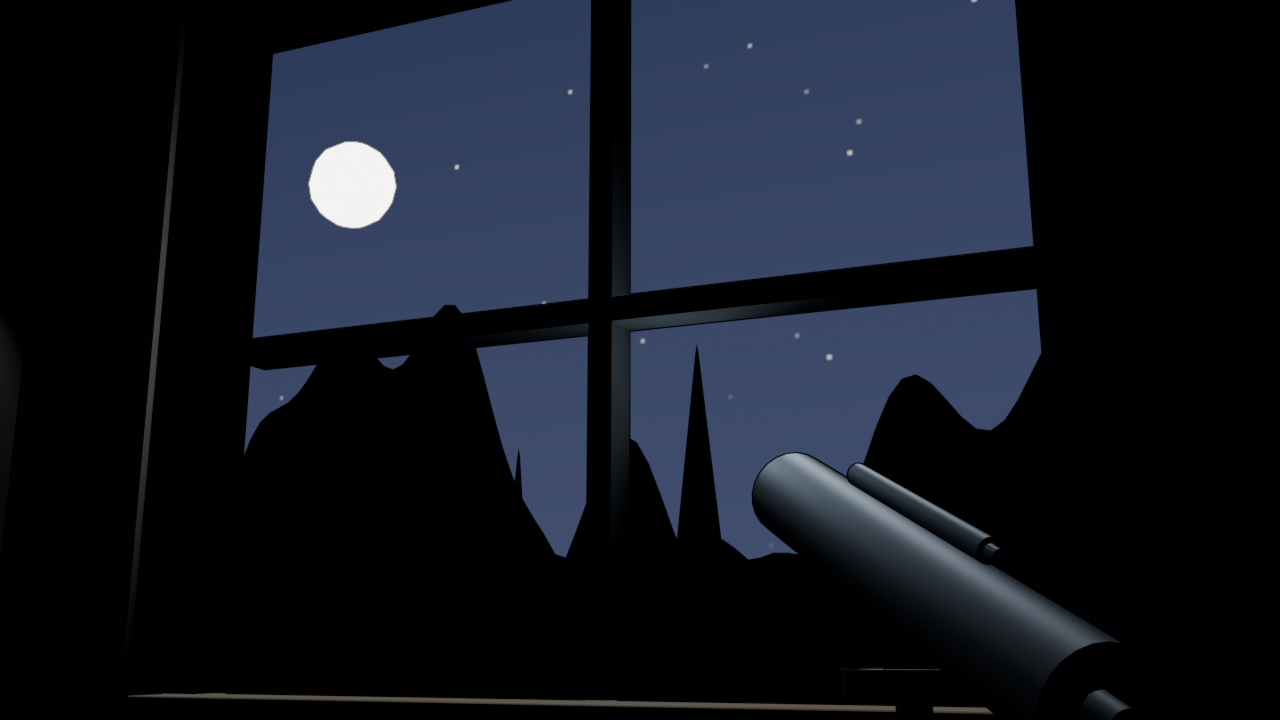
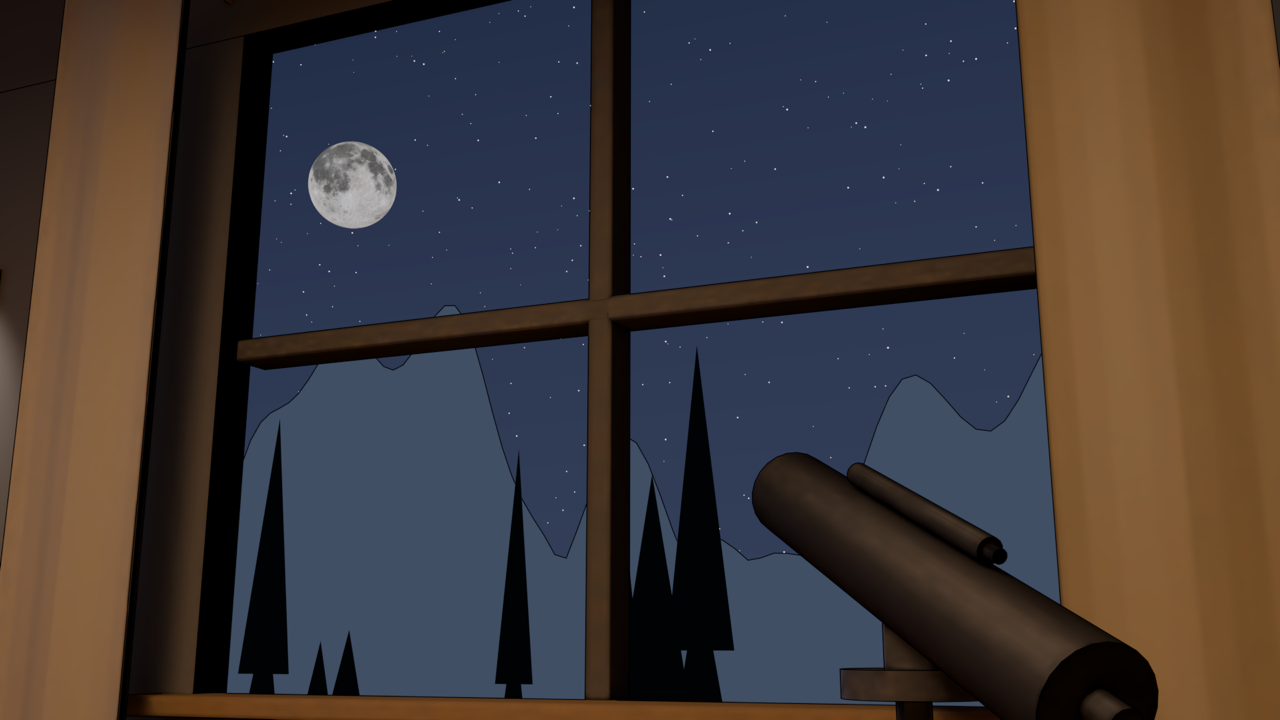
docs: re-shoot every reference render against the v13 export
v13 declares a 16:9 aspectRatio where v12 declared a square frame, and four
framings moved with it (bookshelf, cv, scoreboard, home). Every reference
render was therefore stale: a stale reference makes the comparison loop
report drift that isn't there.

The 11 renders replace the previous 9 — home and cv had never been shot.
Downscaled to the 1280x720 the harness already used; the 1920x1080
originals would have put 67 MB of PNG in history for no added precision.

No code change was needed: deriving the horizontal field from yfov and
aspectRatio absorbed both the new focals and the new aspect ratio. The
trap did get subtler, though, and CLAUDE.md now says so — reading yfov as
a vertical field is no longer visibly wrong on a 16:9 viewport, only on
every other ratio.

diff --git a/tests/stops.test.ts b/tests/stops.test.ts
@@ -42,10 +42,12 @@ describe('verticalFov', () => {
     expect(verticalFov(54.43, 1)).toBeCloseTo(54.43, 5)
   })
 
-  it("convertit les 54,43° horizontaux de Home en ~32,27° verticaux en 16:9", () => {
-    // L'invariant documenté : c'est exactement ce que l'export précédent
-    // déclarait pour cette même caméra. Si ce chiffre bouge, la révélation
-    // Home a changé de cadrage.
+  it('convertit 54,43° horizontaux en ~32,27° verticaux en 16:9', () => {
+    // Le couple de référence de la conversion. Il vient de deux exports
+    // successifs qui déclaraient la même caméra de deux façons différentes :
+    // 54,43° pour un cadre carré d'un côté, 32,27° de champ vertical 16:9 de
+    // l'autre. Les deux décrivent le même cadrage — c'est ce que cette
+    // fonction doit prouver.
     expect(verticalFov(54.43, 16 / 9)).toBeCloseTo(32.27, 1)
   })
 

diff --git a/CLAUDE.md b/CLAUDE.md
@@ -22,13 +22,13 @@ This is a **React 19 + react-three-fiber v9** single-page portfolio that renders
 
 The reference design doc (product decisions, review reports, spike verdicts) lives at `~/.gstack/projects/t3hx-myPortfolio/tehx-fix-rendering-design-20260804-174239.md`. The interaction spec for the scene is `docs/PORTFOLIO_3D_INTERACTIONS.md` — **read it before touching scene behavior**; it lists every animation/interaction with exact object names.
 
-### The asset (IMPORTANT — currently `docs/portfolio_v12.glb`, 2026-08-09)
+### The asset (IMPORTANT — currently `docs/portfolio_v13.glb`, 2026-08-10)
 
 `public/models/scene.glb` is a copy of the latest export. Blender is the source of truth and the `.glb` is gitignored — copy it into any fresh worktree. Current export: **3.0 MB, 146 meshes, 124 materials, 14 textures, ~162 MB texture VRAM**. It is **entirely pre-baked unlit**:
 
 - **No lights and no animations in the file.** All lighting + AgX tone mapping is cooked into the textures.
 - The baked image of each material lives in its **emissive texture slot** (100 of the 124 materials have one). Any other slot is dead weight: an unlit pipeline ignores normal/AO/roughness maps.
-- **11 `CameraStop_*` cameras**, each carrying its own focal length — the tour's single source of truth (see below).
+- **11 `CameraStop_*` cameras**, each carrying its own focal length — the tour's single source of truth (see below). v13 also declares `aspectRatio: 16/9`, which v12 did not.
 - Compression: **Draco geometry + webp textures** (`KHR_draco_mesh_compression`, `EXT_texture_webp`). 90 MB of PNG/raw → 7.6 MB webp → 3.0 MB with Draco; geometry was ~5.4 MB of that. Draco needs the decoder in `public/draco/` (see `DRACO_DECODER_PATH`).
 - **No `runtime` tags** (dropped in v10). `RoomModel` therefore *derives* each material's treatment from the glTF itself — see below. Tags are still read first if a future export restores them.
 - Texture VRAM is the real mobile risk and compression does **not** reduce it: KTX2 in CI is still required.
@@ -52,7 +52,9 @@ This replaced the legacy `blenderMatch.ts` calibration system (git history), whi
 
 **Blender is the single source of truth for poses AND focal lengths.** `extractStops()` samples each `CameraStop_*` node's world transform straight from the loaded graph (no Z-up→Y-up conversion to get wrong); the glb's cameras are never made active, we tween *our* render camera to match.
 
-**Field of view is stored HORIZONTALLY — do not "simplify" this.** A glTF camera describes its framing as `yfov` **+ `aspectRatio`**, and Blender derives that pair from the scene's render resolution: the v12 export declares `aspectRatio: 1`, so its `yfov` is the field of a *square* frame (Home: 54.43°), not the vertical field of a widescreen one. Feeding it straight into three's `camera.fov` (vertical, against the canvas aspect) frames everything far too wide — it visibly broke the Home reveal. The horizontal field is the invariant: 54.43° horizontal = 32.27° vertical at 16:9, exactly what the previous export declared for the same camera. `applyProgress()` interpolates the horizontal field and converts it per viewport via `verticalFov()` — a **horizontal fit**, so Blender's framing survives every screen ratio and a shorter viewport crops top/bottom instead of pulling back and losing the shot.
+**Field of view is stored HORIZONTALLY — do not "simplify" this.** A glTF camera describes its framing as `yfov` **+ `aspectRatio`**, and Blender derives that pair from the scene's render resolution. The horizontal field is the invariant: `extractStops()` computes it from *both* numbers, `applyProgress()` interpolates it, and `verticalFov()` converts it per viewport — a **horizontal fit**, so Blender's framing survives every screen ratio and a shorter viewport crops top/bottom instead of pulling back and losing the shot.
+
+**v13 made this trap harder to catch, not easier.** v12 declared `aspectRatio: 1` — a square frame — so feeding its `yfov` straight into three's `camera.fov` framed everything far too wide and visibly broke the Home reveal. v13 declares 16:9, so the same shortcut now looks *correct on a 16:9 viewport* and only drifts on other ratios: an ultrawide monitor or a laptop at 16:10 would quietly get a framing nobody authored. The derivation is still load-bearing; it just no longer fails loudly. `tests/stops.test.ts` is what keeps it honest.
 
 Adding a stop = name a camera `CameraStop_<X>` in Blender **+** add one line to `CAMERA_STOPS` (the array *is* the tour order, and its `label` is the `?stop=` key). A stop listed in code but missing from the glb is skipped with a console warning.
 
@@ -60,7 +62,7 @@ There is deliberately **no hardcoded pose table** any more: it existed only whil
 
 **The `Home` framing is deliberate** (product decision): it fills the frame with a monitor so the first screen reads as a flat 2D image; the first scroll pulls back and reveals the room in 3D. That reveal is the opening beat of the experience — never "fix" Home into a room overview.
 
-**All 11 stops come from the glb — verified 2026-08-09.** Every `CameraStop_*` node carries a real camera with its own authored focal length (Bookshelf 73.74° hfov ≈ 24 mm, MonitorVertical 38.19° ≈ 52 mm, TelescopeMoon 7.63° ≈ 270 mm). An earlier note here claimed the export lacked the bookshelf and second-monitor framings and told you to add them to a `STOP_POSES` table — both were wrong: v12 provides them, and that table was deliberately deleted. Design-doc tasks T6 and T7 predate the v12 export and are obsolete.
+**All 11 stops come from the glb — re-verified against v13, 2026-08-10.** Every `CameraStop_*` node carries a real camera with its own authored focal length, spanning GuitarPoster 83.97° hfov (≈ 20 mm) to TelescopeMoon 7.63° (≈ 270 mm). **Four framings changed between v12 and v13** — Bookshelf 73.74° → 49.55°, MonitorVertical 38.19° → 26.99°, Scoreboard 61.93° → 55.79°, Home 54.43° → 53.13° — which is why every reference render was re-shot. Nothing in the code changed: deriving the horizontal field from `yfov × aspectRatio` absorbed both the new focals and the new aspect ratio on its own. An earlier note here claimed the export lacked the bookshelf and second-monitor framings and told you to add them to a `STOP_POSES` table — both were wrong, and that table was deliberately deleted. Design-doc tasks T6 and T7 are obsolete.
 
 A node named `CameraStop_X` that carries **no** camera (an Empty) is now skipped with an explicit warning. It used to fall through to `fov = 45`: the stop parked at the right spot, said nothing, and showed a framing nobody authored — plausible enough to read as a Blender decision. `tests/stops.test.ts` locks both this and the horizontal-fov derivation; the two are the only regressions this file has ever shipped, and neither was visible to the eye.
 

diff --git a/docs/BRIEF_CLAUDE_DESIGN.md b/docs/BRIEF_CLAUDE_DESIGN.md
@@ -8,7 +8,7 @@
 > fausses (§ 1). Il est volontairement autonome — le design doc vit hors du dépôt
 > et ne sera donc pas ingéré avec la codebase.
 >
-> Dernière réconciliation avec le code : 2026-08-09.
+> Dernière réconciliation avec le code : **2026-08-10, export v13**.
 
 ---
 
@@ -52,8 +52,9 @@ pourcentage de défilement.
 
 ### 1.2 Il y a 11 arrêts, pas 10 — un arrêt « CV » est apparu
 
-L'export v12 fournit **11 caméras `CameraStop_*`**, chacune portant sa propre
-focale. L'ordre de la visite est celui de `src/config/cameraStops.ts` :
+L'export **v13** fournit **11 caméras `CameraStop_*`**, chacune portant sa propre
+focale, et déclare enfin un `aspectRatio` de **16:9** (v12 déclarait un cadre
+carré). L'ordre de la visite est celui de `src/config/cameraStops.ts` :
 
 | # | Arrêt (label) | Nœud Blender | Facette racontée |
 |---|---|---|---|
@@ -81,14 +82,24 @@ maquette — le brief précédent ne le connaissait pas.
 
 ### 1.3 Les focales sont très hétérogènes — une maquette « générique » ne marchera pas
 
-Chaque caméra porte sa focale authoriale, et l'écart est extrême :
+Chaque caméra porte sa focale authoriale (valeurs v13, champ **horizontal**),
+et l'écart est extrême :
 
-- Bookshelf : 73,74° de champ horizontal (≈ 24 mm) — plan large
-- CV / MonitorVertical : 38,19° (≈ 52 mm)
-- Home : 54,43°
-- Moon : **7,63° (≈ 270 mm)** — téléobjectif serré
+| Arrêt | Champ horizontal | ≈ focale |
+|---|---|---|
+| Guitar | 83,97° | ≈ 20 mm — très large |
+| PosterTelescope | 61,93° | ≈ 29 mm |
+| Scoreboard | 55,79° | ≈ 33 mm |
+| Telescope | 54,43° | ≈ 34 mm |
+| Home | 53,13° | ≈ 35 mm |
+| Bookshelf | 49,55° | ≈ 38 mm |
+| Desk | 46,40° | ≈ 41 mm |
+| Cabinet | 41,91° | ≈ 46 mm |
+| Cat | 39,60° | ≈ 49 mm |
+| CV | 26,99° | ≈ 74 mm |
+| Moon | **7,63°** | **≈ 270 mm — téléobjectif serré** |
 
-Le 270 mm de la lune ne laisse pas la place d'un plan large 24 mm. **Chaque arrêt
+Le 270 mm de la lune ne laisse pas la place d'un plan large 20 mm. **Chaque arrêt
 a sa composition, son espace négatif et sa focale propres**, d'où la contrainte
 d'entrée du § 3.
 
@@ -153,24 +164,17 @@ Scène 3D, shaders, contours 3D (technique encore ouverte), écrans d'auth
 référence `docs/renders/refs/<stop>.png` (1280×720), jamais sur un canvas
 abstrait.** Chaque arrêt a sa composition et son espace négatif propres.
 
-**Disponible aujourd'hui — 9 renders** : `bookshelf`, `cabinet`, `cat`, `desk`,
-`guitar`, `moon`, `posters`, `scoreboard`, `telescope`.
+**Les 11 renders sont disponibles** (re-rendus depuis Blender le 2026-08-10 avec
+les focales et le ratio v13) : `home`, `cv`, `desk`, `scoreboard`, `bookshelf`,
+`cabinet`, `cat`, `guitar`, `posters`, `telescope`, `moon`. **Plus rien ne bloque
+la session.**
 
-**Manquant — 2 renders, et ce sont les deux plus critiques** : `home` (le plan
-d'ouverture) et `cv` / `MonitorVertical` (le nouvel arrêt du § 1.2).
+*Un douzième rendu, `docs/renders/overview.png`, montre la pièce entière. Ce n'est
+pas un arrêt de la visite — utile pour comprendre l'espace, à ne pas maquetter.*
 
-**Qui les produit** : ces images sont la vérité-terrain **Blender**, pas des
-captures runtime — c'est justement contre elles que la boucle de comparaison
-(#40 / #46) mesure le rendu WebGL. L'issue #40 le dit explicitement : *« les deux
-manquants sont à produire depuis Blender, donc côté utilisateur »*. Ce n'est donc
-**pas** une dépendance sur #45 (qui capture le runtime via Playwright), mais un
-rendu à lancer dans Blender.
-
-> **Contournement possible pour ne pas bloquer la session** : une capture runtime
-> à `?stop=Home` et `?stop=CV` est un **fond de maquette parfaitement suffisant**,
-> même si elle ne vaut pas comme référence de comparaison. Décision à prendre :
-> rendre les deux images dans Blender, ou démarrer sur des captures runtime pour
-> ces deux arrêts seulement.
+⚠ **Les 9 anciennes références étaient périmées** et ont été remplacées : quatre
+cadrages ont changé entre v12 et v13 (Bookshelf 73,74° → 49,55°, CV 38,19° →
+26,99°, Scoreboard 61,93° → 55,79°, Home 54,43° → 53,13°).
 
 **Règle d'ancrage responsive** : les refs 16:9 sont des références de
 **composition**, pas une grille absolue. Le rendu réel s'étire du 16:10 portable
@@ -259,9 +263,20 @@ portait sur le risque de désamorcer la révélation en plaçant un écran devan
 du clic.** Conséquence pour les maquettes : l'écran de pré-sélection doit *donner
 envie d'entrer* — c'est lui qui porte la promesse que Home tiendra ensuite.
 
+**Piste offerte par le render `home.png`** : à ce cadrage, l'écran du moniteur
+remplit tout le champ et **le bake le laisse volontairement vide** — un aplat uni
+(≈ `#363c4a`), sans un pixel de décor. Autrement dit, le plan d'ouverture est déjà
+un rectangle plein cadre prêt à recevoir du contenu 2D. **L'écran de pré-sélection
+peut littéralement être « ce qui s'affiche sur le moniteur »** : le visiteur
+choisit sur l'écran allumé, puis la caméra recule et révèle la pièce autour. La
+pré-sélection cesse alors d'être un obstacle devant la révélation — elle en devient
+le premier plan. Idem pour l'arrêt `CV` (`cv.png`), écran vertical vide.
+
 ### 5.2 « CV » désigne un arrêt et un item de navigation (§ 1.2)
 
-### 5.3 Rendre Home et CV dans Blender, ou démarrer sur des captures runtime ? (§ 3)
+### 5.3 Renders manquants — RÉSOLU (2026-08-10)
+
+Les 11 renders ont été produits depuis Blender avec l'export v13 (§ 3).
 
 ### 5.4 Tokens en variables CSS, ou passage à Tailwind ?
 
@@ -401,8 +416,8 @@ Deux epics sont concernées : **#12** (coquille produit et accessibilité) et
 | #33 | Bilingue FR/EN (P1) | contraintes de gabarit bilingue § 4 |
 | #28 | Contrastes 4.5:1 et cibles tactiles 44 px (P1) | les seuils sont déjà posés § 7 |
 
-**Dépendance en amont** : les deux renders `home` et `cv` (§ 3) — rendu Blender,
-côté utilisateur.
+**Aucune dépendance en amont** : les 11 renders sont livrés, la session peut
+démarrer.
 
 **Aucune issue « design system » n'existe encore** : le `docs/DESIGN.md` du § 9
 n'a pas de ticket. À créer sous l'epic #12 si la session est lancée.

diff --git a/docs/renders/README.md b/docs/renders/README.md
@@ -2,19 +2,24 @@
 
 Two directories:
 
-- **`refs/`** — Ground truth. Blender EEVEE renders, one per camera stop, named after the friendly label in `src/config/cameraStops.ts` (e.g. `desk.png`, `cat.png`). **Committed.** Do not edit.
-- **`actual/`** — Playwright captures from the live WebGL view. Used for side-by-side comparison while tuning `src/config/blenderMatch.ts`. **Gitignored** — captures are throwaway.
+- **`refs/`** — Ground truth. Blender EEVEE renders, one per camera stop, named after the friendly label in `src/config/cameraStops.ts` (e.g. `desk.png`, `cv.png`). 1280×720. **Committed.** Do not edit.
+- **`actual/`** — Playwright captures from the live WebGL view. Used for side-by-side comparison. **Gitignored** — captures are throwaway.
+
+`overview.png` sits beside them: a whole-room render that is **not** a camera stop. It exists to make the space legible; the comparison loop ignores it.
+
+## Available reference stops
+
+All 11, re-rendered from the **v13** export on 2026-08-10:
+
+`home`, `cv`, `desk`, `scoreboard`, `bookshelf`, `cabinet`, `cat`, `guitar`, `posters`, `telescope`, `moon`.
+
+Re-render every reference whenever the Blender cameras move. Four framings changed between v12 and v13 (bookshelf, cv, scoreboard, home), which silently invalidated the previous set — a stale reference makes the comparison loop report drift that isn't there, or hide drift that is.
 
 ## How to use
 
 1. `pnpm dev`
-2. Open `localhost:5173/?debug-fly`, click the canvas to lock the cursor, fly into roughly the same framing as the reference.
-3. Take a 1280×720 screenshot via the Playwright MCP browser tools and save to `actual/<stop>.png`.
-4. Open `refs/<stop>.png` and `actual/<stop>.png` side-by-side. Tune the global knobs in `src/config/blenderMatch.ts` (tone-mapping exposure, light intensity multiplier, bloom params, ambient).
-5. Reload — view mode is resolved once at module load.
+2. Open `localhost:5173/?stop=<label>` — a deterministic snap to that stop, which is what makes captures reproducible.
+3. Capture at 1280×720 into `actual/<stop>.png`.
+4. Compare against `refs/<stop>.png`.
 
-## Available reference stops
-
-`desk`, `bookshelf`, `guitar`, `scoreboard`, `cat`, `telescope`, `posters`, `moon`, `cabinet`.
-
-(`home` has no reference yet.)
+**If the colors are wrong, the bake is wrong.** The runtime is unlit by construction (`src/config/renderPipeline.ts`: `MeshBasicMaterial`, `NoToneMapping`, zero lights) — there is no exposure or tone-mapping knob left to turn. Fix it in Blender and re-export. The old `src/config/blenderMatch.ts` calibration belonged to the lit export and no longer exists.
